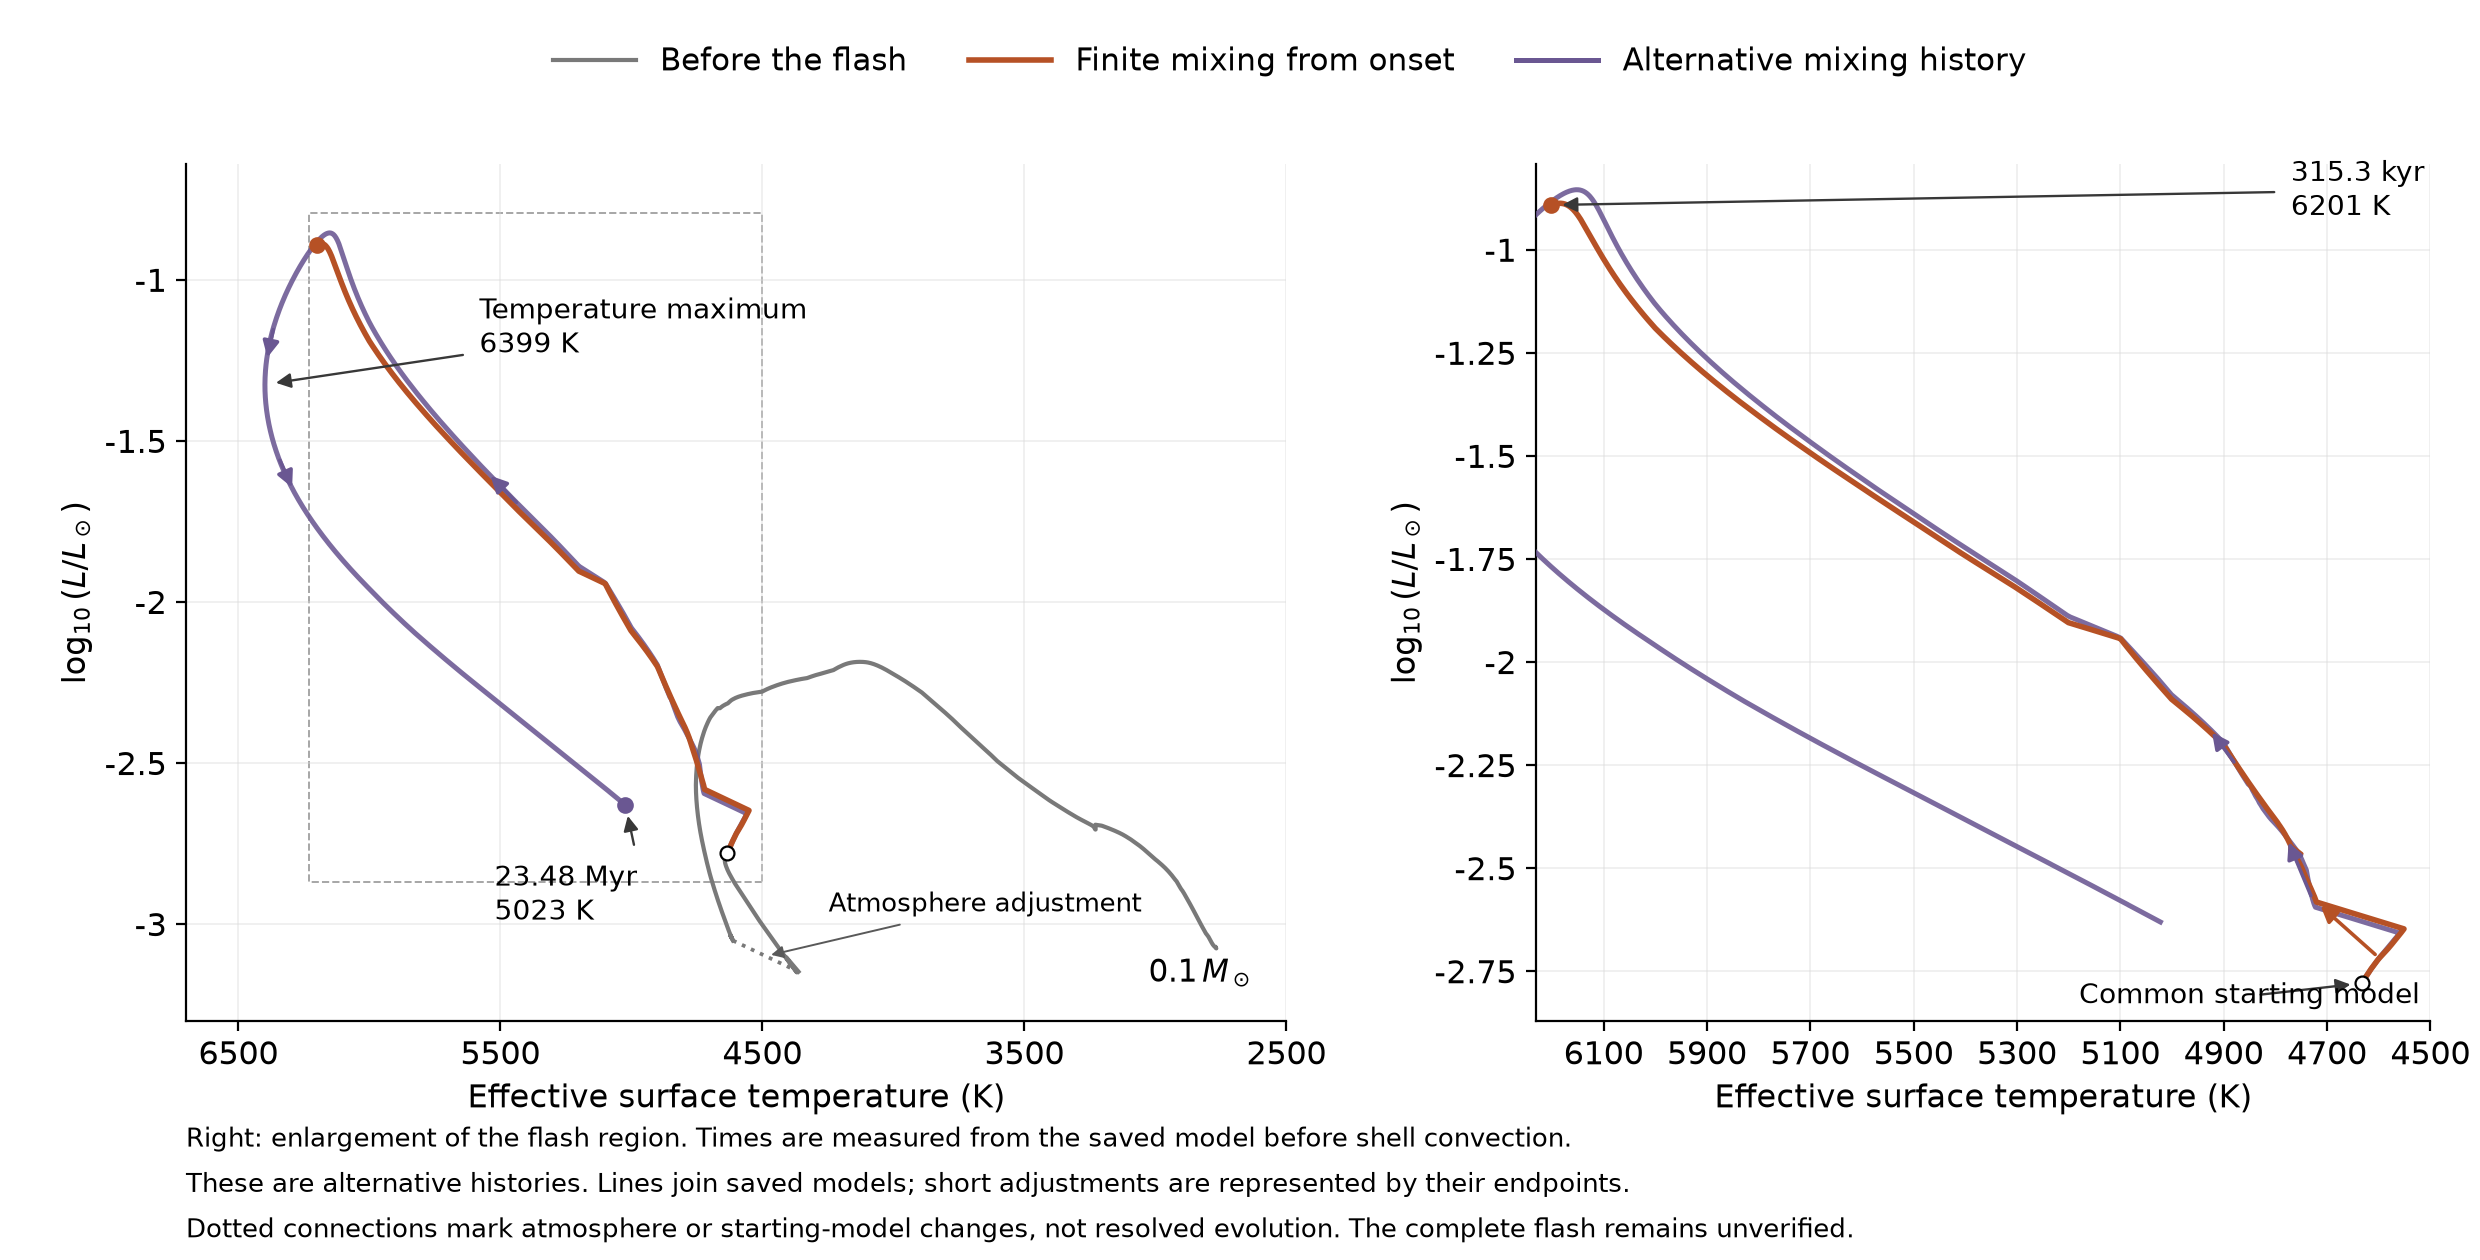
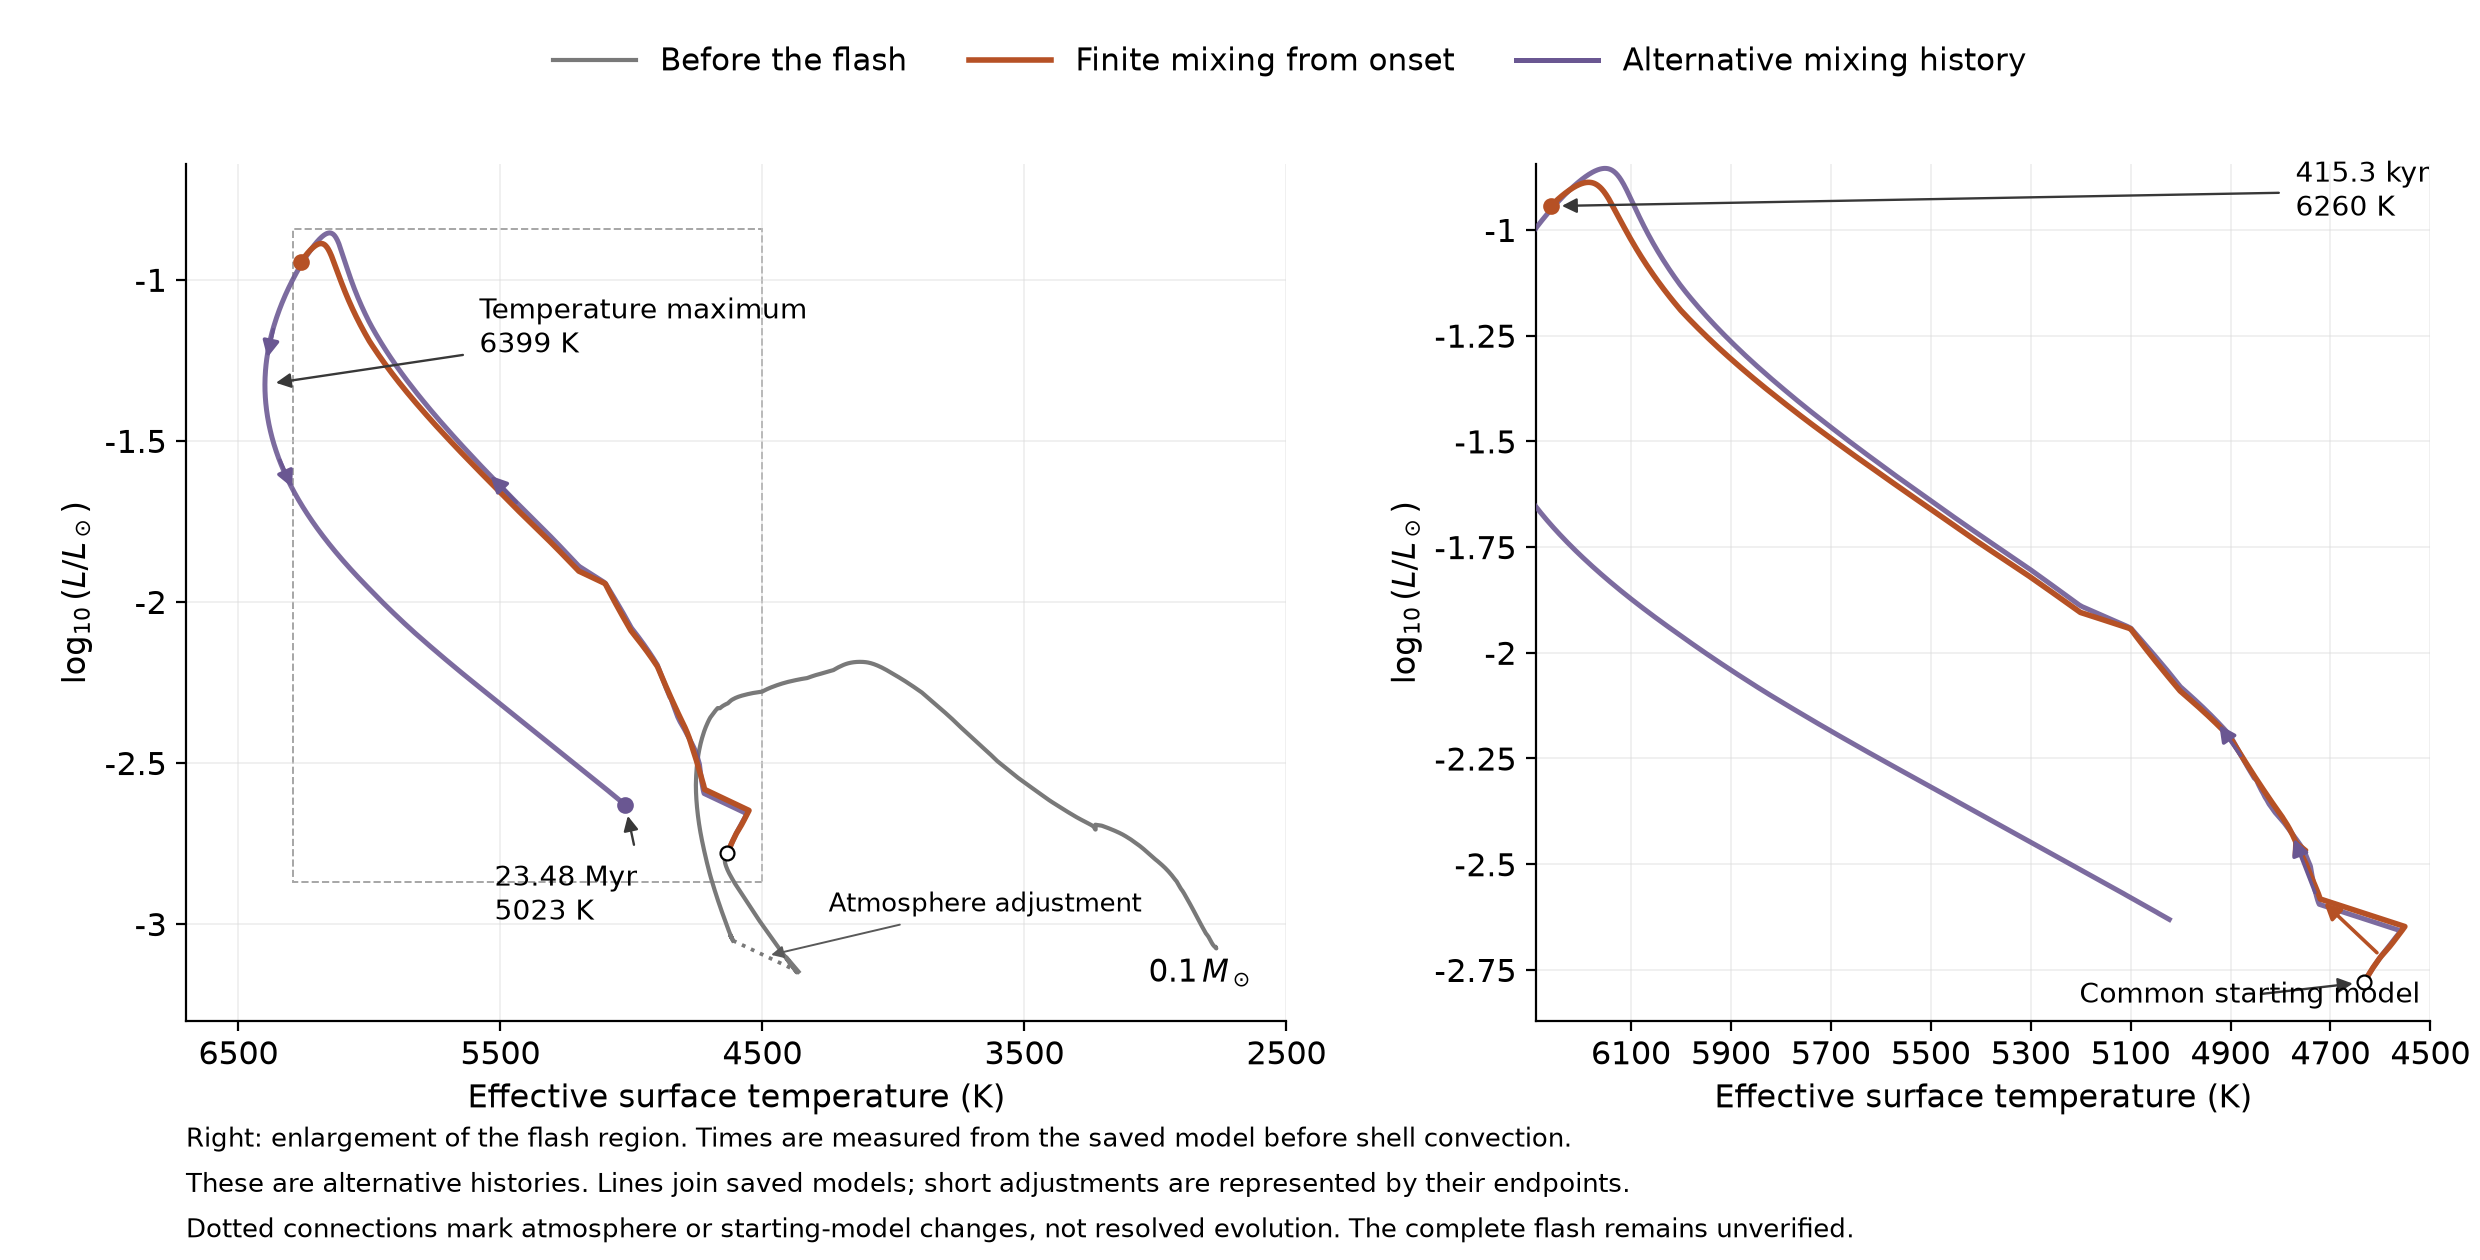
Update reviewed flash evolution through 415 thousand years

diff --git a/docs/reports/2026-09-21/ember_status_and_future.tex b/docs/reports/2026-09-21/ember_status_and_future.tex
@@ -52,7 +52,7 @@ $2.348\times10^7$ yr from the model before shell convection, reaching
 $T_{\rm eff}=5023$ K and declining nuclear power of
 $3.981\times10^{30}$ erg s$^{-1}$. Its radius and surface luminosity have passed maxima; effective temperature has passed a local maximum and declined by 1376 K. A separate calculation with finite
 convective transport from the onset follows a rise, decline and renewed
-burning through $3.153\times10^5$ yr. These are alternative histories from a
+burning through $4.153\times10^5$ yr. These are alternative histories from a
 common model near the onset of shell convection, with different preceding
 mixing treatments; their endpoints cannot be joined into one verified track.
 Both use the supplied hydrogen atmosphere normalization. Whether the flash
@@ -763,12 +763,12 @@ resolution dependence remain to be established.
 
 The onset calculation includes finite composition transport throughout all
 convective layers. On a locally refined 1983-point grid it reaches
-$3.153\times10^5$ yr, $T_{\rm eff}=6201$ K and nuclear power
-$1.017\times10^{32}$ erg s$^{-1}$. Nuclear power continues to decline;
+$4.153\times10^5$ yr, $T_{\rm eff}=6260$ K and nuclear power
+$8.714\times10^{31}$ erg s$^{-1}$. Nuclear power continues to decline;
 each retained interval passes the timestep, species and cell-energy checks.
-The largest single-cell contribution to nuclear power is 8.213\%.
-At this endpoint, nuclear burning supplies 20.7\% of the surface luminosity,
-and the radius is $0.3103\,R_\odot$.
+The largest single-cell contribution to nuclear power is 7.328\%.
+At this endpoint, nuclear burning supplies 20\% of the surface luminosity,
+and the radius is $0.2868\,R_\odot$.
 A matched $10^4$ yr comparison of two hydrogen atmosphere references
 through $\log g=5.25$ gives a 4.187 K difference in endpoint temperature
 and a 0.009269\% difference in deposited nuclear energy, with identical

diff --git a/README.md b/README.md
@@ -19,7 +19,7 @@ are measured from their common model preceding shell convection.
 
 | Calculation | Time | Effective temperature | Nuclear power |
 | --- | ---: | ---: | ---: |
-| Finite convective transport from flash onset, 1983 mass points | 315.3 thousand yr | 6201 K | 1.017e32 erg/s |
+| Finite convective transport from flash onset, 1983 mass points | 415.3 thousand yr | 6260 K | 8.714e31 erg/s |
 | Later shell burning, alternative history, 2115 mass points | 23.48 million yr | 5023 K | 3.981e30 erg/s |
 
 **These are alternative histories, not consecutive pieces of one track.**
@@ -32,7 +32,7 @@ that delay does not establish independence from the envelope and fuel history.
 
 The onset calculation passes a local nuclear-power maximum of **3.719e35 erg/s**,
 followed by an **81.64%** decline and renewed burning. Nuclear power continues to decline through independently checked intervals. The largest single-cell power contribution
-is **8.213%**. A matched **100-year** comparison on **1927/1983 mass points**
+is **7.328%**. A matched **100-year** comparison on **1927/1983 mass points**
 changes nuclear heat by **8.261%** and final power by **15.24%**. Inserting
 mass points produces an initial mechanical readjustment with an integrated
 energy residual of **1.844e43 erg** in its first year. A controlled correction
@@ -95,7 +95,7 @@ The paper compares Ember with MESA and with Laughlin, Bodenheimer and Adams
 (1997), including the requested opacity-map comparison. The separate
 [Fortran reconstruction](https://github.com/oklo/Henyey) seeks to reproduce
 LBA97's assumptions and methods. A new [late cooling figure](docs/reports/2026-09-21/late_cooling.pdf) shows the checked temperature turn and luminosity decline, with its small data table and plotting script included.
-The [standalone HR diagram of both flash histories](docs/figures/2026-09-21/ember_two_sequences_hr.png) shows the alternatives through 315.3 thousand years and 23.48 million years.
+The [standalone HR diagram of both flash histories](docs/figures/2026-09-21/ember_two_sequences_hr.png) shows the alternatives through 415.3 thousand years and 23.48 million years.
 Standalone flash diagrams remain separate from the draft.
 
 The public source does not yet contain all physics and numerical updates used

diff --git a/docs/reports/2026-09-21/README.md b/docs/reports/2026-09-21/README.md
@@ -3,7 +3,7 @@
 [Read the PDF](ember_status_and_future.pdf).
 
 The calculation with finite convective transport from the helium-3 flash onset
-reaches **315.3 thousand years**, **6201 K** and nuclear power **1.017e32 erg/s**
+reaches **415.3 thousand years**, **6260 K** and nuclear power **8.714e31 erg/s**
 on **1983** mass points. Nuclear power continues to decline through independently checked intervals. A matched
 **100-year** comparison on **1927/1983** points differs by **8.261%** in nuclear
 heat and **15.24%** in final nuclear power. The first year after refinement has
@@ -78,7 +78,7 @@ This directory contains the PDF, LaTeX inputs and included figure PDFs.
 The [late cooling figure](late_cooling.pdf), its [data](late_cooling.csv) and
 plotting script are included. The LBA97 opacity comparison is retained.
 The [standalone HR diagram of both histories](../../figures/2026-09-21/ember_two_sequences_hr.png)
-shows the alternatives through 315.3 thousand years and 23.48 million years;
+shows the alternatives through 415.3 thousand years and 23.48 million years;
 standalone flash diagrams remain separate from this draft.
 
 Rebuild here with `tectonic --keep-logs ember_status_and_future.tex`.
